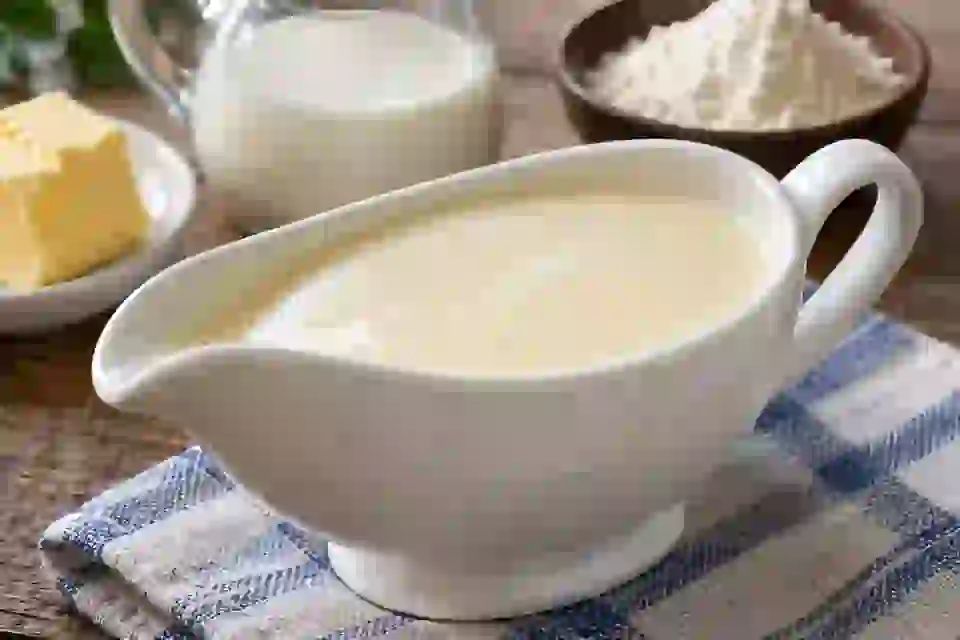
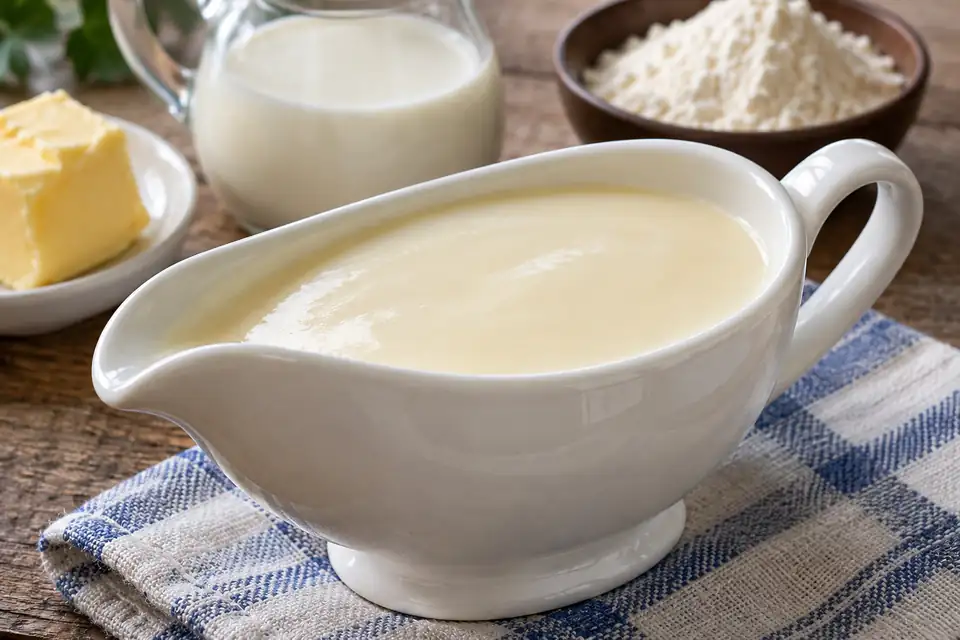
[Chat 3] fix(image): publish higher-quality white-sauce WebP to Draft PR with pinned SHA

diff --git a/docs/reviews/new-recipes/chat3-kastikkeet-kuvasisallon-katselmointi-2026-11-22.md b/docs/reviews/new-recipes/chat3-kastikkeet-kuvasisallon-katselmointi-2026-11-22.md
@@ -33,3 +33,10 @@ Tämä on reseptilähteiden **sisällön eheystarkistus**, ei `nutrition_input_h
 ## Korvaus 22.11.2026 – Chat 3
 
[1 lines of base64/hex data omitted]
+
+## Uudelleenpakattu valkokastikkeen kuva – Chat 3, 22.11.2026
+
+- Aiemman kuvasisällöllisesti oikean mutta liian pikselöityneen 6 942 tavun WebP:n tilalle tuotiin täsmälleen alkuperäisinä tavuina uusi **43 930 tavun**, **960 × 640** WebP samaan polkuun `kuvat/alkuruoat/perinteinen-valkokastike.webp`.
[1 lines of base64/hex data omitted]
+- Chat 3:n suora kuvasisällön ja näkyvän laatueron tarkistus: **PRELIMINARY_VISUAL_QUALITY_OK**. Sileä, vaalea maitokastike valkoisessa kastikekannussa; vihreitä yrttejä tai paakkuja ei näy. Ei väitettä valokuvamaisesta koekeittiötestistä.
+- Kuvan lopullinen toimituksellinen, käyttöoikeus-/ImageAssets- ja julkaisuportin hyväksyntä ei valmistunut. Kaikki 10 reseptiä ja PR #808 edelleen **Draft/HOLD**. Vanhat SHA:t raportissa ovat historiallisen kuvan dokumentointia, eivät tämänhetkistä manifestia.

diff --git a/docs/reviews/recipes/perinteinen-valkokastike-2026-11-21.md b/docs/reviews/recipes/perinteinen-valkokastike-2026-11-21.md
@@ -16,3 +16,7 @@ Aiemmassa AI-kuvassa oli reseptiin kuulumatonta vihreää ruohosipulia. Chat 3 k
 Sisältää **maitoa ja vehnää**. Sekoita kastiketta koko kuumennuksen ajan ja varmista, että jauhot kypsyvät eivätkä jää paakuiksi.
 
 Perustana Ruokaviraston allergeeniluettelo: https://www.ruokavirasto.fi/elintarvikkeet/elintarvikeala/ainesosat-ja-sisalto/allergeenit . Etikettien ja säilytyksen arviointia jatketaan. FI/EN/SV/TH päivitetty; ei julkaisuhyväksyntää.
+
+## Parempilaatuinen uusi havainnekuva, 22.11.2026
+
[1 lines of base64/hex data omitted]
